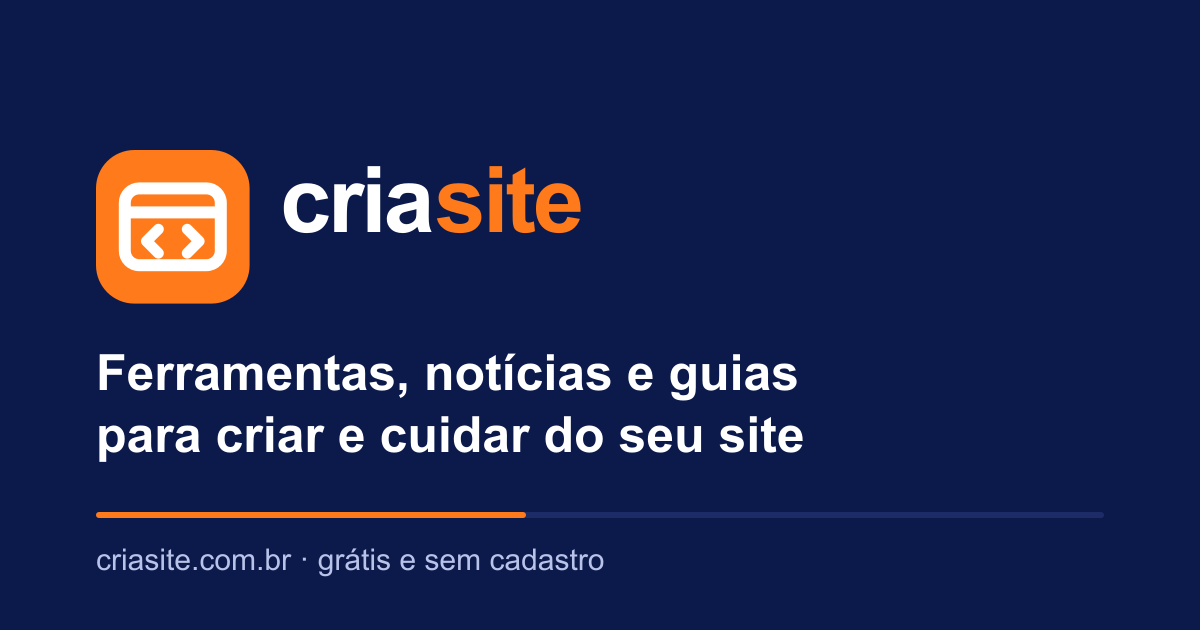
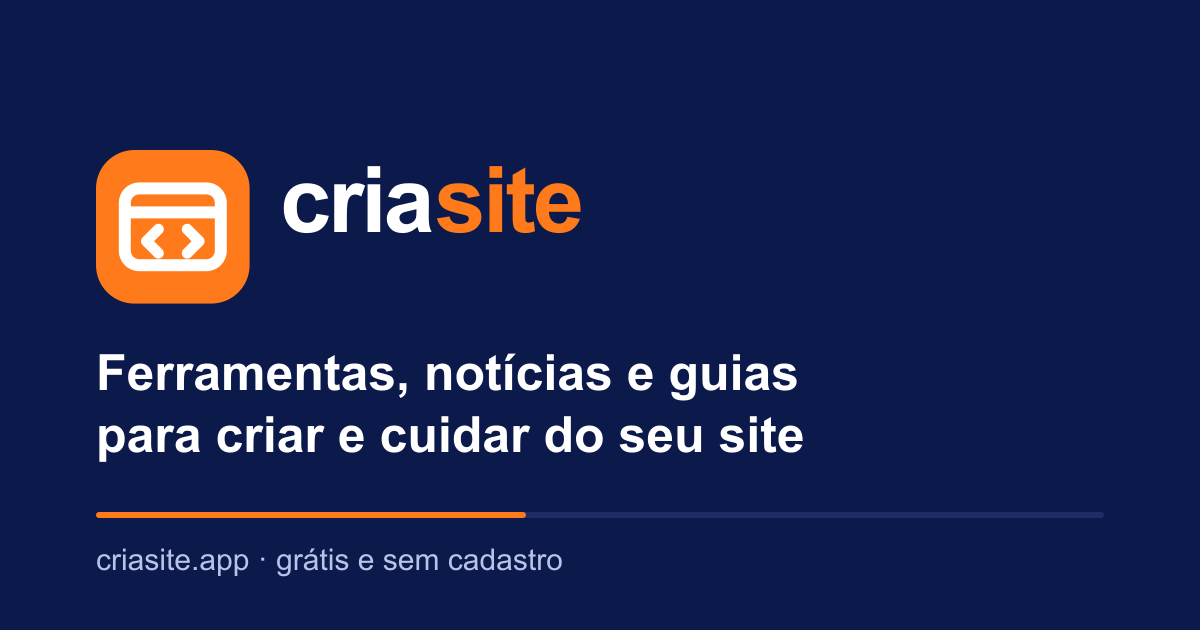
Domínio definitivo criasite.app: e-mail, textos, imagem de compartilhamento e docs

Changed region(s): [[0.1542, 0.8746, 0.5242, 0.9048]]

diff --git a/scripts/admin-hash.ts b/scripts/admin-hash.ts
@@ -41,8 +41,8 @@ if (confirm !== password) {
   process.exit(1);
 }
 
-console.log("\nCadastre no hPanel (Sites → criasite.com.br → Node.js → Variáveis de ambiente):\n");
+console.log("\nCadastre no hPanel (Sites → criasite.app → Node.js → Variáveis de ambiente):\n");
 console.log("ADMIN_EMAIL=<seu e-mail de login>");
 console.log(`ADMIN_PASSWORD_HASH=${await hashPassword(password)}`);
 console.log(`SESSION_SECRET=${randomBytes(32).toString("base64url")}`);
-console.log("\nNão mande esses valores no chat. Depois de salvar, acesse https://criasite.com.br/admin");
+console.log("\nNão mande esses valores no chat. Depois de salvar, acesse https://criasite.app/admin");

diff --git a/app/lib/site.ts b/app/lib/site.ts
@@ -5,9 +5,9 @@ export const SITE = {
   tagline: "Ferramentas, notícias e guias para criar e cuidar do seu site",
   description:
     "Ferramentas gratuitas que rodam no navegador (comprimir imagem, QR code, link do WhatsApp, meta tags), notícias da web e guias em português para criar e cuidar do seu site.",
-  url: (import.meta.env.VITE_SITE_URL as string | undefined)?.replace(/\/$/, "") ?? "https://criasite.com.br",
+  url: (import.meta.env.VITE_SITE_URL as string | undefined)?.replace(/\/$/, "") ?? "https://criasite.app",
   locale: "pt_BR",
-  email: "contato@criasite.com.br",
+  email: "contato@criasite.app",
   team: "Equipe CriaSite",
 } as const;
 

diff --git a/app/lib/robot/rss.server.ts b/app/lib/robot/rss.server.ts
@@ -3,7 +3,7 @@ import { XMLParser } from "fast-xml-parser";
 import { emptyMedia, mediaFromHtml, mediaFromRssItem, type SourceMedia } from "./media.ts";
 import { decodeEntities, extractArticleText, stripTags } from "./text.ts";
 
-export const USER_AGENT = "Mozilla/5.0 (compatible; CriaSiteBot/1.0; +https://criasite.com.br/sobre)";
+export const USER_AGENT = "Mozilla/5.0 (compatible; CriaSiteBot/1.0; +https://criasite.app/sobre)";
 
 export interface FeedItem {
   guid: string;

diff --git a/app/components/Footer.tsx b/app/components/Footer.tsx
@@ -45,7 +45,7 @@ export function Footer({ adsOn }: { adsOn: boolean }) {
           <div className="flex flex-wrap gap-x-5 gap-y-2">
             {adsOn && <CookiePrefsButton className="text-left hover:text-moon" />}
             <span>
-              © {new Date().getFullYear()} {SITE.team} · criasite.com.br
+              © {new Date().getFullYear()} {SITE.team} · criasite.app
             </span>
           </div>
         </div>

diff --git a/docs/README.md b/docs/README.md
@@ -6,7 +6,7 @@ e o que vem a seguir.
 
 **Regra:** toda tarefa concluída atualiza o status abaixo e o documento da área.
 
-O CriaSite (criasite.com.br) é o 4º site da família (Respawnou, Vibecoin, Anime Profile): ferramentas
+O CriaSite (criasite.app) é o 4º site da família (Respawnou, Vibecoin, Anime Profile): ferramentas
 gratuitas que rodam no navegador, notícias automáticas sobre a web e guias em pt-BR para quem cria e
 cuida de sites. Mesma estratégia dos irmãos: repositório público como portfólio e renda com AdSense
 (e afiliado da Hostinger depois). A base de código veio do Vibecoin.
@@ -30,7 +30,7 @@ Legenda: ✅ feito · 🔄 em andamento · ⏳ próximo · 💤 depois · ❓ es
 | Fase | Item | Status |
 |---|---|---|
 | 0 | Conceito: ferramentas + notícias automáticas + trilha/guias | ✅ |
-| 0 | Marca CriaSite, domínio criasite.com.br, repo `evssousa/criasite` (antigo da organização apagado pelo dono) | ✅ |
+| 0 | Marca CriaSite, domínio criasite.app (definitivo; sem .com.br), repo `evssousa/criasite` (antigo da organização apagado pelo dono) | ✅ |
 | 0 | Layout "Busca + Central" (4 rodadas de protótipos) | ✅ |
 | 1 | Esqueleto a partir do Vibecoin, sem cotações; tema, cabeçalho, rodapé, ícones e imagem de compartilhamento | ✅ |
 | 1 | Home: busca que filtra, atalhos, faixa da trilha, Suas ferramentas (estrela), diretório, notícias, guias | ✅ |
@@ -41,7 +41,8 @@ Legenda: ✅ feito · 🔄 em andamento · ⏳ próximo · 💤 depois · ❓ es
 | 1 | README de portfólio + LICENSE + telas | ✅ |
 | 2 | Deploy na Hostinger (criasite.app), repo religado, banco novo, variáveis, Cron Jobs; 1ª coleta ok (19 pautas) | ✅ |
 | 2 | Chave do Gemini, senha do painel, DNS do e-mail (nameservers na Hostinger) | ✅ |
-| 2 | Caixa de e-mail, Search Console, domínio .com.br | ❓ |
+| 2 | Caixa contato@criasite.app, CNAMEs antigos apagados | ✅ |
+| 2 | Search Console e Bing | ⏳ |
 | 2 | Guias da trilha (8 a 12) escritos no painel | ⏳ |
 | 2 | Mais ferramentas (converter imagem, está fora do ar?, orçamento de site, paleta, favicon) | 💤 |
 | 3 | Pedido do AdSense e afiliado da Hostinger | 💤 |
@@ -53,13 +54,12 @@ Legenda: ✅ feito · 🔄 em andamento · ⏳ próximo · 💤 depois · ❓ es
    deixou um erro de digitação ("após validador"). Reforçar a checagem em `quality.ts` se repetir.
 2. Escrever os guias da trilha no painel (um por etapa, mais alguns de apoio).
 3. Novas ferramentas na ordem de `ferramentas.md` (converter imagem primeiro).
-4. Domínio .com.br, Search Console e Bing; depois de ~20 notícias e os guias, pedir o AdSense.
+4. Search Console e Bing; depois de ~20 notícias e os guias, pedir o AdSense.
 
 ## Pendências suas
 
-- Apagar no hPanel (DNS do criasite.app) os CNAMEs `send` e `rsend`, do projeto antigo: a API não aceitou a exclusão.
-- Criar a caixa `contato@criasite.app` no hPanel (o aviso de e-mail pode levar algumas horas para sumir).
-- Registrar o criasite.com.br (ainda não está na conta). Até lá o site fica em criasite.app.
+- Cadastrar o criasite.app no Google Search Console (propriedade de domínio; eu adiciono o registro TXT de
+  verificação no DNS se você me passar o código) e enviar `https://criasite.app/sitemap.xml`.
 
 ## Regra de atualização
 

diff --git a/docs/deploy-hostinger.md b/docs/deploy-hostinger.md
@@ -18,7 +18,7 @@ O criasite.app usava os nameservers da Cloudflare (`sue`/`zahir.ns.cloudflare.co
 a zona da Hostinger era ignorada e não havia MX, por isso o hPanel dizia "A configuração do seu domínio
 não está completa". Trocados para `ns1/ns2.dns-parking.com` (como os outros sites). A zona da Hostinger
 já tinha site (ALIAS para a CDN), MX, SPF, DKIM (3 CNAMEs) e DMARC; conferido nos servidores da
-Hostinger depois da troca. Os CNAMEs `send`/`rsend` (rmta.net) são do projeto antigo: o dono autorizou apagar, mas a exclusão pela API falhou (o MCP não repassa o filtro); apagar pelo hPanel.
+Hostinger depois da troca. Os CNAMEs `send`/`rsend` (rmta.net), do projeto antigo, foram apagados pelo dono no hPanel (a exclusão pela API falhou: o MCP não repassa o filtro).
 
 ## Primeira coleta (2026-11-15)
 
@@ -27,14 +27,13 @@ pelo painel `/admin/fontes` se continuar.
 
 ## Domínio
 
-O plano é ter o **criasite.com.br** como principal, mas ele ainda não está na conta. Quando estiver:
-adicionar como site (ou domínio do mesmo app), trocar `VITE_SITE_URL` para `https://criasite.com.br`
-(é usada no build: fazer um novo deploy depois), redirecionar o criasite.app para o .com.br e
-cadastrar o .com.br no Search Console.
+**criasite.app é o domínio definitivo** (decisão do dono em 2026-11-15: o .com.br não será registrado).
+O `.app` só abre por HTTPS (HSTS pré-carregado): o SSL da Hostinger está ativo, vitalício, com
+redirecionamento para HTTPS. E-mail: `contato@criasite.app` (caixa criada pelo dono).
 
 ## Falta
 
 1. ~~`GEMINI_API_KEY`~~ cadastrada pelo dono (2026-11-15); diag ok (gemini-3.5-flash e flash-lite), teste dry ok.
 2. ~~Variáveis do painel~~ cadastradas pelo dono (2026-11-15).
-3. Criar a caixa `contato@criasite.app` (ou `.com.br` quando existir), Search Console e Bing.
+3. ~~Caixa `contato@criasite.app`~~ criada pelo dono (2026-11-15). Falta Search Console e Bing.
 4. Guias da trilha no painel antes de pedir o AdSense.

diff --git a/docs/decisoes.md b/docs/decisoes.md
@@ -54,3 +54,10 @@ Mais recente no topo. Cada decisão diz o que foi decidido, quando e por quê.
   (fora do feed de notícias). Robô com guia editorial próprio (foco no dono de site pequeno, sem
   promessa de resultado) e link automático para a ferramenta citada no texto.
 - **Bancos antigos do criasite na Hostinger:** o dono autorizou apagar e recriar no deploy.
+
+## 2026-11-15 — Domínio definitivo: criasite.app
+
+- **O quê:** o .com.br não será registrado; criasite.app é o domínio do site, do e-mail
+  (`contato@criasite.app`) e de todos os textos. Nameservers na Hostinger (antes estavam na Cloudflare,
+  da instalação antiga, e o e-mail não funcionava).
+- **Por quê:** decisão do dono. O .app já estava na conta, com SSL vitalício.

diff --git a/README.md b/README.md
@@ -9,7 +9,7 @@
 Ferramentas gratuitas que rodam no navegador (comprimir imagem, QR code, link do WhatsApp, meta tags),
 notícias da web escritas automaticamente e uma trilha passo a passo do domínio ao primeiro visitante.
 
-[**criasite.com.br**](https://criasite.com.br)
+[**criasite.app**](https://criasite.app)
 
 </div>
 
